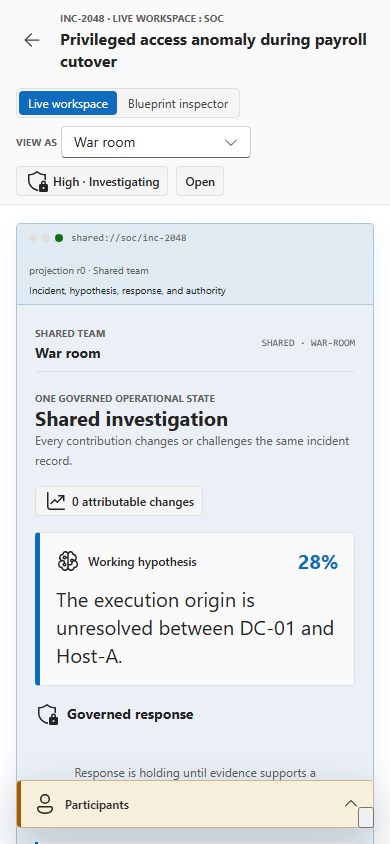
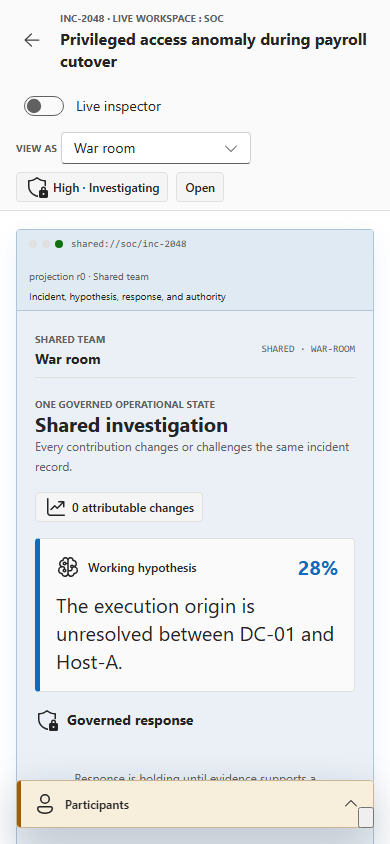
Use Fluent switches in SOC controls

diff --git a/samples/bundles/live-workspace-soc/projection_views/index.tsx b/samples/bundles/live-workspace-soc/projection_views/index.tsx
@@ -16,6 +16,7 @@ import {
 } from "@fluentui/react-icons";
 import type { ProjectionView } from "@gik/react";
 import { GrowingContainer } from "../../../../adapters/react/src/primitives/registry";
+import { FluentSwitchControl } from "../../fluent/projection_views/index";
 import {
   compileSocPresentation,
   SOC_BLUEPRINT_CONTEXTS,
@@ -272,7 +273,7 @@ const useStyles = makeStyles({
   eyebrow: { color: "var(--muted)", fontSize: tokens.fontSizeBase100, fontWeight: tokens.fontWeightBold, textTransform: "uppercase" },
   title: { margin: 0, fontSize: tokens.fontSizeBase400, lineHeight: tokens.lineHeightBase400, overflowWrap: "anywhere" },
   controls: { width: "100%", display: "flex", alignItems: "center", justifyContent: "flex-start", gap: tokens.spacingHorizontalS, flexWrap: "wrap" },
-  demoMode: { display: "inline-flex", padding: "2px", gap: "2px", border: `1px solid var(--line)`, borderRadius: tokens.borderRadiusMedium, backgroundColor: "var(--panel-2)" },
+  workspaceModeSwitch: { minWidth: "150px" },
   viewpointControl: { display: "inline-flex", alignItems: "center", gap: tokens.spacingHorizontalXS },
   viewpointLabel: { color: "var(--muted)", fontSize: tokens.fontSizeBase100, fontWeight: tokens.fontWeightBold, textTransform: "uppercase" },
   pill: { display: "inline-flex", alignItems: "center", gap: tokens.spacingHorizontalXS, minHeight: "30px", padding: `0 ${tokens.spacingHorizontalS}`, border: `1px solid var(--line)`, borderRadius: tokens.borderRadiusMedium, backgroundColor: "var(--panel-2)", fontSize: tokens.fontSizeBase200, fontWeight: tokens.fontWeightSemibold },
@@ -395,7 +396,7 @@ const useStyles = makeStyles({
   authority: { color: "var(--muted)", fontSize: tokens.fontSizeBase100 },
   providerControls: { display: "grid", gap: tokens.spacingVerticalXS, marginTop: tokens.spacingVerticalS, paddingTop: tokens.spacingVerticalS, borderTop: `1px solid var(--line)` },
   providerHeader: { display: "grid", gap: tokens.spacingVerticalXS },
-  providerMode: { width: "100%", display: "flex", padding: "2px", gap: "2px", border: `1px solid var(--line)`, borderRadius: tokens.borderRadiusMedium, backgroundColor: "var(--panel-2)", "& > button": { flex: 1 } },
+  providerMode: { minWidth: "92px" },
   providerName: { color: "var(--muted)", fontFamily: tokens.fontFamilyMonospace, fontSize: tokens.fontSizeBase100, whiteSpace: "nowrap", overflow: "hidden", textOverflow: "ellipsis" },
   providerStatus: { color: "var(--muted)", fontSize: tokens.fontSizeBase100, overflowWrap: "anywhere" },
   authorize: { width: "100%", marginTop: tokens.spacingVerticalS },
@@ -560,9 +561,14 @@ const LiveWorkspaceSoc: ProjectionView = ({ node, emit, children }) => {
           </div>
         </div>
         <div className={styles.controls}>
-          <div className={styles.demoMode} role="group" aria-label="Workspace mode">
-            <Button size="small" appearance={consolePlane === "runtime" ? "primary" : "subtle"} onClick={() => selectPlane("runtime")}>Live workspace</Button>
-            <Button size="small" appearance={consolePlane === "blueprint" ? "primary" : "subtle"} onClick={() => selectPlane("blueprint")}>Blueprint inspector</Button>
+          <div className={styles.workspaceModeSwitch}>
+            <FluentSwitchControl
+              checked={consolePlane === "blueprint"}
+              offLabel="Live inspector"
+              onLabel="Blueprint inspector"
+              ariaLabel="Workspace inspector mode"
+              onToggle={(checked) => selectPlane(checked ? "blueprint" : "runtime")}
+            />
           </div>
           <label className={styles.viewpointControl}>
             <span className={styles.viewpointLabel}>View as</span>
@@ -858,9 +864,14 @@ const LiveWorkspaceSoc: ProjectionView = ({ node, emit, children }) => {
                 {item.kind === "agent" && agentProviders[item.id] ? <div className={styles.providerControls}>
                   <div className={styles.providerHeader}>
                     <span className={styles.providerName} title={agentProviders[item.id].agentName}>{agentProviders[item.id].agentName}</span>
-                    <div className={styles.providerMode} role="group" aria-label={`${item.name} provider`}>
-                      <Button size="small" appearance={agentProviders[item.id].mode === "mock" ? "primary" : "subtle"} onClick={() => { emit("setAgentMode", { agentId: item.id, mode: "mock" }, item.id); }}>Mock</Button>
-                      <Button size="small" appearance={agentProviders[item.id].mode === "live" ? "primary" : "subtle"} onClick={() => { emit("setAgentMode", { agentId: item.id, mode: "live" }, item.id); }}>Live</Button>
+                    <div className={styles.providerMode}>
+                      <FluentSwitchControl
+                        checked={agentProviders[item.id].mode === "live"}
+                        offLabel="Mock"
+                        onLabel="Live"
+                        ariaLabel={`${item.name} provider mode`}
+                        onToggle={(checked) => emit("setAgentMode", { agentId: item.id, mode: checked ? "live" : "mock" }, item.id)}
+                      />
                     </div>
                   </div>
                   <div className={styles.providerStatus}>{agentProviders[item.id].status}{agentProviders[item.id].fallbackReason ? ` · ${agentProviders[item.id].fallbackReason}` : agentProviders[item.id].conversationId ? ` · conversation active` : ""}</div>

diff --git a/samples/bundles/fluent/projection_views/index.tsx b/samples/bundles/fluent/projection_views/index.tsx
@@ -2,6 +2,36 @@ import React from "react";
 import { Switch, ToggleButton } from "@fluentui/react-components";
 import { readProps, type ProjectionView, type ProjectionViewProps } from "@gik/react";
 
+export interface FluentSwitchControlProps {
+  checked: boolean;
+  onLabel: string;
+  offLabel: string;
+  onToggle: (checked: boolean) => void;
+  disabled?: boolean;
+  ariaLabel?: string;
+}
+
+export function FluentSwitchControl({
+  checked,
+  onLabel,
+  offLabel,
+  onToggle,
+  disabled = false,
+  ariaLabel,
+}: FluentSwitchControlProps): React.ReactElement {
+  return (
+    <Switch
+      className="gx-fluent-switch"
+      checked={checked}
+      disabled={disabled}
+      label={checked ? onLabel : offLabel}
+      labelPosition="after"
+      aria-label={ariaLabel}
+      onChange={(_, data) => onToggle(data.checked)}
+    />
+  );
+}
+
 function readToggleState(node: ProjectionViewProps["node"]): {
   checked: boolean;
   label: string;
@@ -26,15 +56,14 @@ const FluentSwitch: ProjectionView = ({ node, emit }) => {
   const props = readProps(node);
   const state = readToggleState(node);
   return (
-    <Switch
-      className="gx-fluent-switch"
+    <FluentSwitchControl
       checked={state.checked}
       disabled={props.bool("disabled")}
-      label={state.label}
-      labelPosition="after"
-      onChange={(_, data) => emit("toggle", {
-        checked: data.checked,
-        value: data.checked ? state.onValue : state.offValue,
+      onLabel={props.str("onLabel", props.str("label"))}
+      offLabel={props.str("offLabel", props.str("label"))}
+      onToggle={(checked) => emit("toggle", {
+        checked,
+        value: checked ? state.onValue : state.offValue,
       })}
     />
   );

diff --git a/samples/apps/host/parity/soc-parity.spec.ts b/samples/apps/host/parity/soc-parity.spec.ts
@@ -49,6 +49,15 @@ test("demo runner expands, collapses, and brokers semantic timeline focus", asyn
   const runner = page.getByLabel("Scenario runner");
   const runnerToggle = runner.getByRole("button").first();
   await expect(runnerToggle).toHaveAttribute("aria-expanded", "true");
+  await expect(runner.getByRole("button", { name: "Auto" })).toHaveAttribute("aria-pressed", "true");
+  const inspectorSwitch = page.getByRole("switch", { name: "Workspace inspector mode" });
+  await expect(inspectorSwitch).not.toBeChecked();
+  await inspectorSwitch.click();
+  await expect(page.getByRole("heading", { name: "Intent to runnable bundle" })).toBeVisible();
+  await expect(inspectorSwitch).toBeChecked();
+  await inspectorSwitch.click();
+  await expect(page.getByRole("heading", { name: "Shared investigation" })).toBeVisible();
+  await expect(inspectorSwitch).not.toBeChecked();
   await expect(page).toHaveScreenshot("soc-demo-expanded-desktop.png");
 
   await advance(page, 2);
@@ -59,6 +68,8 @@ test("demo runner expands, collapses, and brokers semantic timeline focus", asyn
   await expect(page.locator('[data-soc-object-id="intent"]')).toHaveCSS("outline-style", "solid");
   await page.getByRole("button", { name: "Participants" }).click();
   await expect(page.locator('[data-soc-actor-id="human-morgan"]')).toHaveCSS("outline-style", "solid");
+  await expect(page.getByRole("switch", { name: "Correlation Agent provider mode" })).not.toBeChecked();
+  await expect(page.getByRole("switch", { name: "Response Agent provider mode" })).not.toBeChecked();
 
   await runnerToggle.click();
   await expect(runnerToggle).toHaveAttribute("aria-expanded", "false");

diff --git a/samples/scenarios/live-workspace-soc-executive/scenario.test.ts b/samples/scenarios/live-workspace-soc-executive/scenario.test.ts
@@ -5,6 +5,7 @@ import { socExecutiveScenarioPlan } from "./compile";
 
 test("executive walkthrough is an independently authored SOC scenario", () => {
   assert.equal(socExecutiveScenarioPlan.targetBlueprintId, "live-workspace-soc");
+  assert.equal(socExecutiveScenarioPlan.pace.default, "auto");
   assert.equal(socExecutiveScenarioPlan.steps.length, 14);
   assert.equal(socExecutiveScenarioPlan.steps[0].title, "Set the investigation objective");
   assert.equal(socExecutiveScenarioPlan.steps[12].kind, "human-gate");

diff --git a/samples/scenarios/live-workspace-soc-t3/scenario.test.ts b/samples/scenarios/live-workspace-soc-t3/scenario.test.ts
@@ -7,6 +7,7 @@ import { t3ScenarioPlan } from "./compile";
 test("T3 compiles as a scenario targeting the SOC organism Blueprint", () => {
   assert.equal(t3ScenarioPlan.id, "live-workspace-soc-t3");
   assert.equal(t3ScenarioPlan.targetBlueprintId, "live-workspace-soc");
+  assert.equal(t3ScenarioPlan.pace.default, "auto");
   assert.equal(t3ScenarioPlan.steps.length, 14);
   assert.equal(new Set(t3ScenarioPlan.steps.map((step) => step.id)).size, 14);
 });

diff --git a/samples/bundles/live-workspace-soc/scenario.test.ts b/samples/bundles/live-workspace-soc/scenario.test.ts
@@ -31,7 +31,7 @@ function demoRuntimes(scenarioPlan: ScenarioPlan = t3ScenarioPlan) {
   shared.apply([{ op: "set", path: "demo", value: {
     enabled: true,
     act: 0,
-    presenter: { pace: "manual", durationMs: 120000, locked: false, advanceToken: 0 },
+    presenter: { pace: "auto", durationMs: 2000, locked: false, advanceToken: 0 },
     request: null,
     ack: null,
     commands: {},
